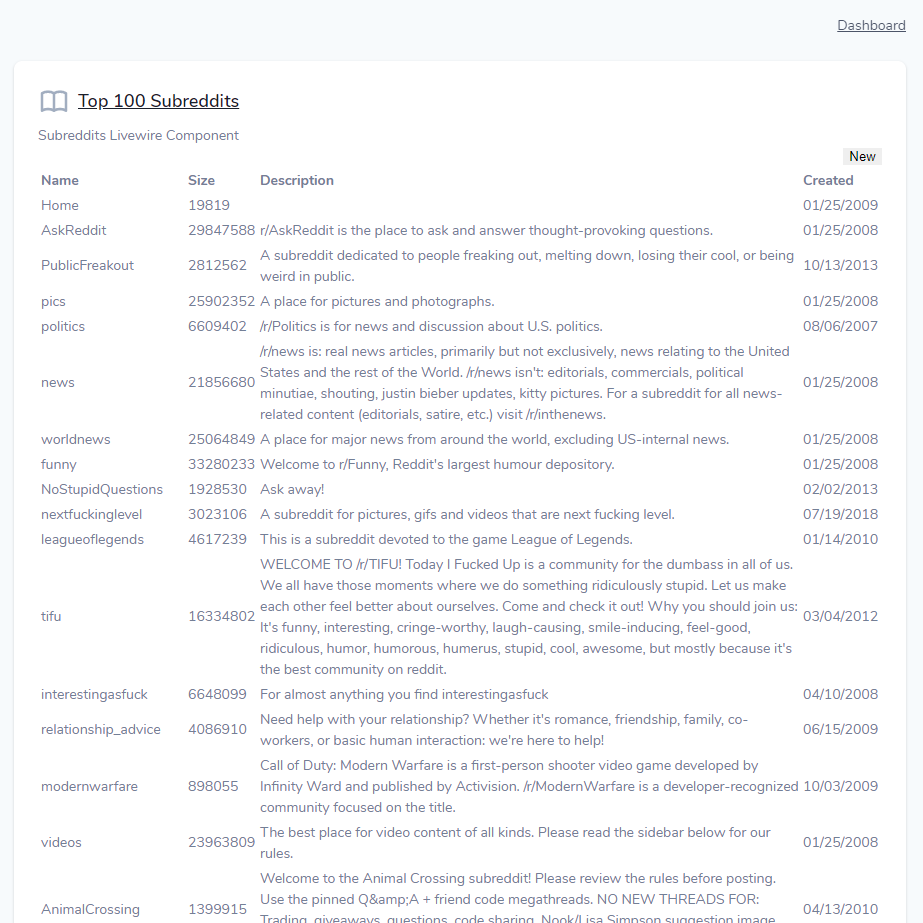
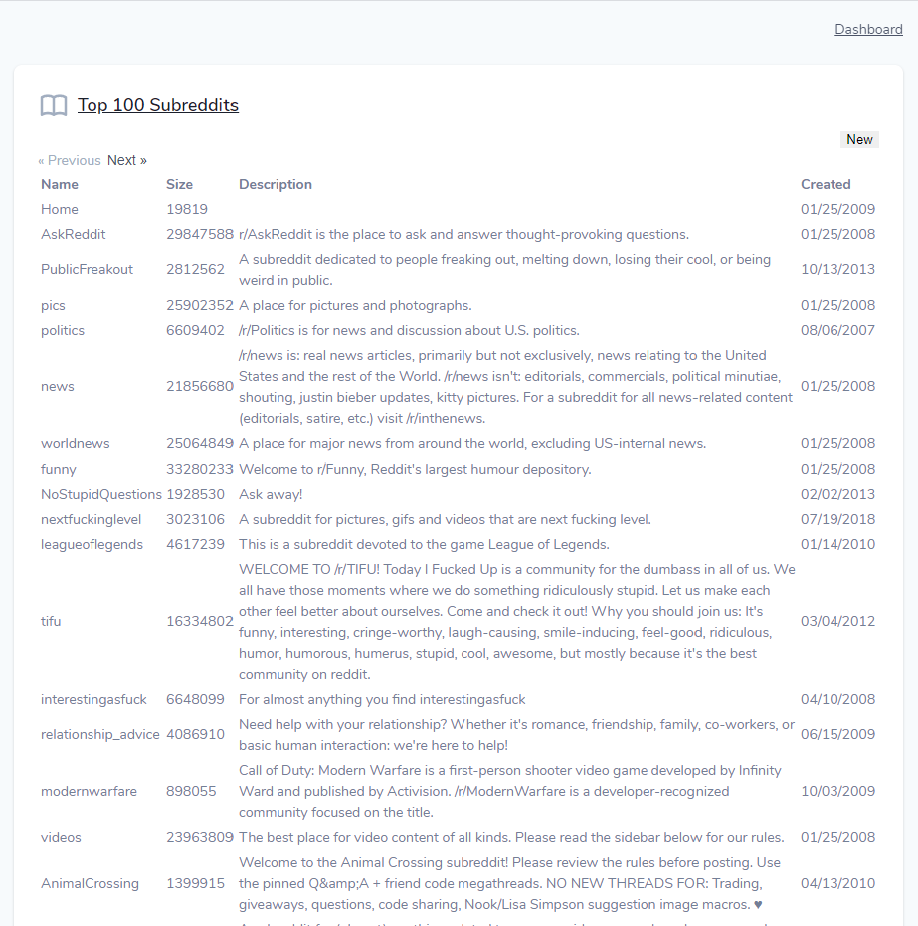
minor changes to Livewire component and fixing syntax errors

diff --git a/database/seeders/PostSeeder.php b/database/seeders/PostSeeder.php
@@ -18,7 +18,7 @@ class PostSeeder extends Seeder
             [
                 'title' => 'assembly developers',
                 'score' => 22495,
-                'link' => 'r/ProgrammerHumor/comments/ivmto5/assembly_developers/',
+                'link' => '/r/ProgrammerHumor/comments/ivmto5/assembly_developers/',
                 'group_id' => 4,
                 'created_at' => Carbon::now(),
                 'updated_at' => Carbon::now()
@@ -34,7 +34,7 @@ class PostSeeder extends Seeder
             [
                 'title' => 'Covid Grows Less Deadly …Practice, Drugs Improve',
                 'score' => 2739,
-                'link' => 'r/Coronavirus/comments/ivtkzn/covid_grows_less_deadly_as_doctors_gain_practice/',
+                'link' => '/r/Coronavirus/comments/ivtkzn/covid_grows_less_deadly_as_doctors_gain_practice/',
                 'group_id' => 3,
                 'created_at' => Carbon::now(),
                 'updated_at' => Carbon::now()

diff --git a/resources/views/livewire/subreddits.blade.php b/resources/views/livewire/subreddits.blade.php
@@ -1,3 +1,4 @@
+
 <div>
     <div style="text-align: left">
         <div style="text-align: end">
@@ -7,6 +8,7 @@
                 </div>
             @endif
             <button wire:click="new">New</button>
+            <button wire:click="clear">Clear</button>
         </div>
         <table>
             <thead>

diff --git a/app/Http/Livewire/Subreddits.php b/app/Http/Livewire/Subreddits.php
@@ -25,6 +25,11 @@ class Subreddits extends Component
         session()->flash('message', 'New Subreddits Retrieved!');
     }
 
+    public function clear()
+    {
+        $this->subs = [];
+    }
+
     public function render()
     {
         return view('livewire.subreddits', [
